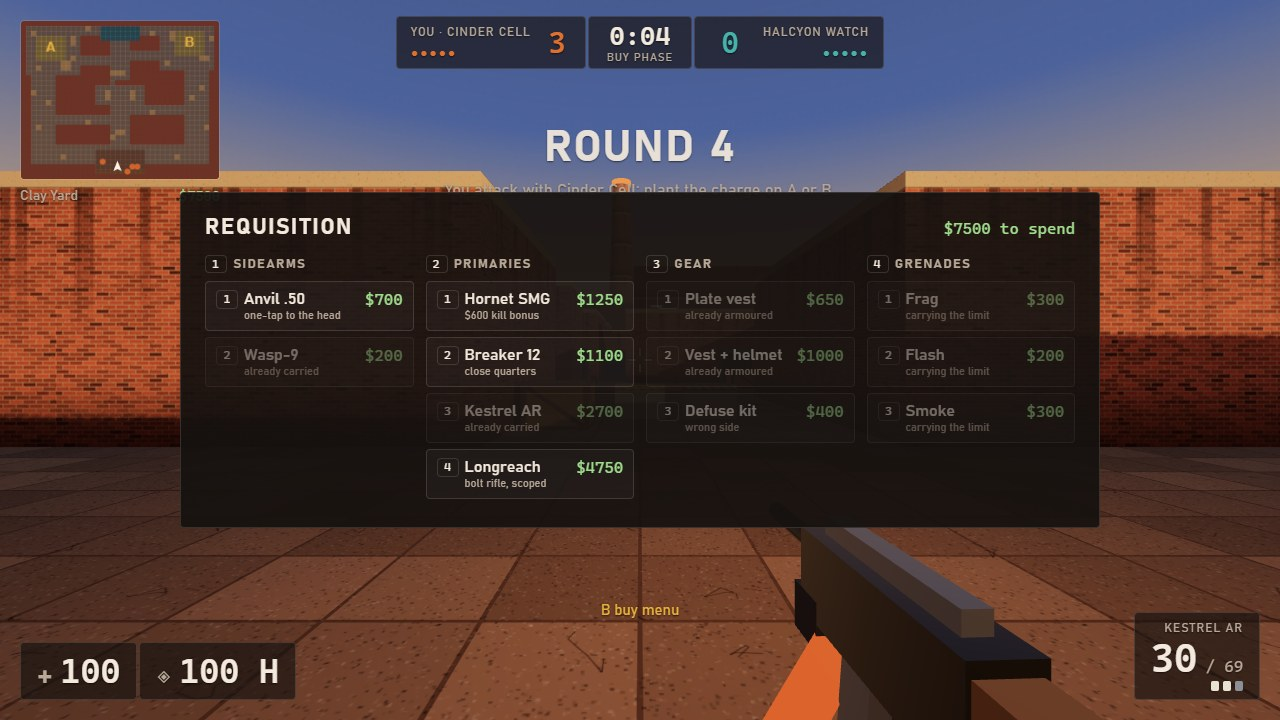
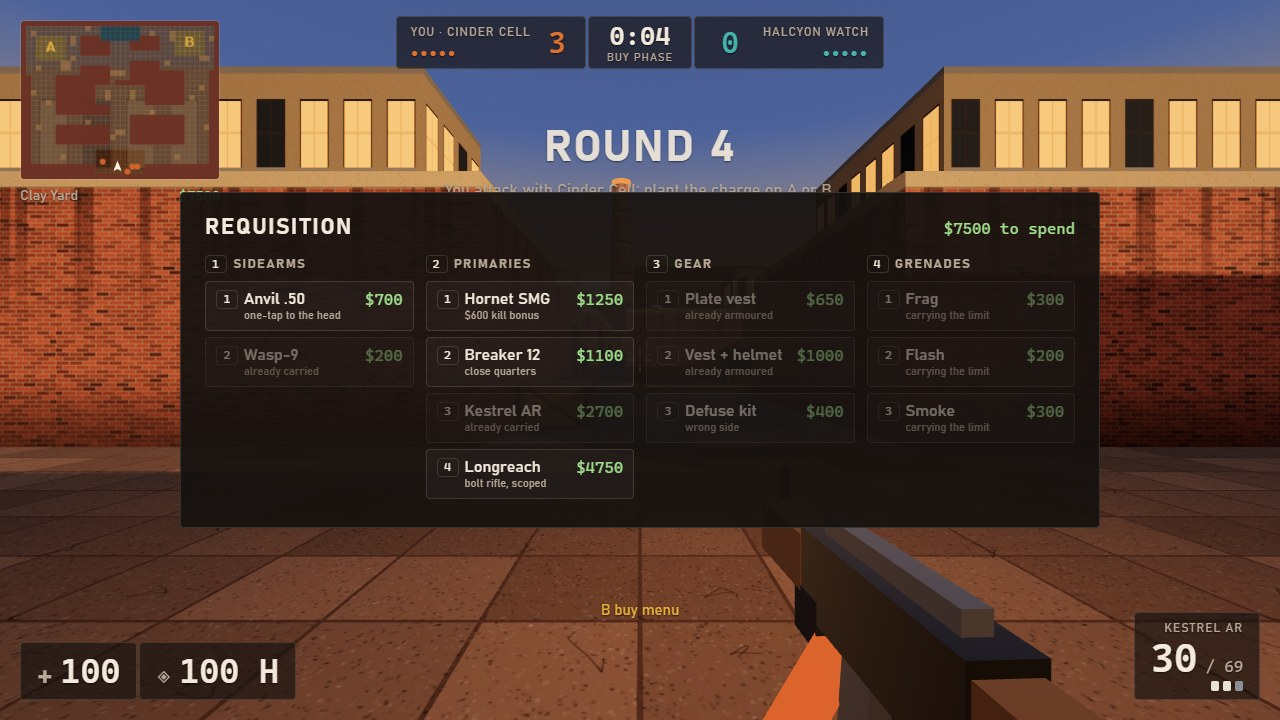
Buildings, paved sites and rifle detail
Wall cells with no open neighbour rise as lit two-storey buildings; the
sites, office and mid get poured concrete floors; rifles get a handguard,
sight post and charging handle; the ray-box test clips one axis at a time.

diff --git a/game/src/render/level.js b/game/src/render/level.js
@@ -5,6 +5,7 @@ import * as THREE from 'three';
 import { CELL } from '../config.js';
 import { PALETTE } from '../palette.js';
 import { createRng } from '../rng.js';
+import { KINDS, PAVED } from '../map/layout.js';
 
 function createBuilder() {
 	return { pos: [], nor: [], uv: [], idx: [] };
@@ -35,6 +36,18 @@ function box(b, x0, y0, z0, x1, y1, z1, tile, top = true) {
 	if (top) quad(b, [x0, y1, z1], [w, 0, 0], [0, 0, -d], [0, 1, 0], 0, 0, 1, 1);
 }
 
+const SIDES = [[1, 0], [-1, 0], [0, 1], [0, -1]];
+
+// One side of a wall cell between heights y0 and y1: 4 m texture tiles along it, one tile of
+// `tall` metres up it from `base`.
+function wallFace(b, c, dx, dz, y0, y1, tall, base) {
+	const h = y1 - y0, v0 = (y0 - base) / tall, v1 = (y1 - base) / tall;
+	if (dx === 1) quad(b, [c.maxX, y0, c.maxZ], [0, 0, -CELL], [0, h, 0], [1, 0, 0], -c.maxZ / 4, v0, -c.minZ / 4, v1);
+	else if (dx === -1) quad(b, [c.minX, y0, c.minZ], [0, 0, CELL], [0, h, 0], [-1, 0, 0], c.minZ / 4, v0, c.maxZ / 4, v1);
+	else if (dz === 1) quad(b, [c.minX, y0, c.maxZ], [CELL, 0, 0], [0, h, 0], [0, 0, 1], c.minX / 4, v0, c.maxX / 4, v1);
+	else quad(b, [c.maxX, y0, c.minZ], [-CELL, 0, 0], [0, h, 0], [0, 0, -1], -c.maxX / 4, v0, -c.minX / 4, v1);
+}
+
 function toMesh(b, material) {
 	const g = new THREE.BufferGeometry();
 	g.setAttribute('position', new THREE.Float32BufferAttribute(b.pos, 3));
@@ -53,31 +66,41 @@ export function buildLevel(scene, grid, tex) {
 	const mat = {
 		wall: new THREE.MeshStandardMaterial({ map: tex.brick, roughness: 0.92 }),
 		floor: new THREE.MeshStandardMaterial({ map: tex.clay, roughness: 0.96 }),
+		paved: new THREE.MeshStandardMaterial({ map: tex.slabs, roughness: 0.85, polygonOffset: true, polygonOffsetFactor: -1 }),
 		crate: new THREE.MeshStandardMaterial({ map: tex.crate, roughness: 0.85 }),
 		crateTall: new THREE.MeshStandardMaterial({ map: tex.steel, roughness: 0.55, metalness: 0.35 }),
 		barrier: new THREE.MeshStandardMaterial({ map: tex.concrete, roughness: 0.9 }),
+		facade: new THREE.MeshStandardMaterial({ map: tex.facade, emissiveMap: tex.facadeGlow, emissive: 0xffb873, emissiveIntensity: 0.95, roughness: 0.9 }),
 		shed: new THREE.MeshStandardMaterial({ map: tex.brick, color: 0x9a8a80, roughness: 1 }),
 	};
 
 	const floor = createBuilder();
 	quad(floor, [0, 0, D], [W, 0, 0], [0, 0, -D], [0, 1, 0], 0, -D / 4, W / 4, 0);
-	const floorMesh = toMesh(floor, mat.floor);
-	floorMesh.castShadow = false;
-	scene.add(floorMesh);
+	const paved = createBuilder();
+	for (const [x0, z0, x1, z1] of PAVED) {
+		const w = (x1 - x0) * CELL, d = (z1 - z0) * CELL;
+		quad(paved, [x0 * CELL, 0, z1 * CELL], [w, 0, 0], [0, 0, -d], [0, 1, 0], x0 * CELL / 4, -z1 * CELL / 4, x1 * CELL / 4, -z0 * CELL / 4);
+	}
+	for (const m of [toMesh(floor, mat.floor), toMesh(paved, mat.paved)]) {
+		m.castShadow = false;
+		scene.add(m);
+	}
 
-	// Walls: only faces that border a non-wall cell are built, so the merged mesh stays small.
-	const walls = createBuilder();
-	const isWall = (x, z) => grid.at(x, z)?.ch === '#';
+	// Walls: a face is built only where a cell rises above its neighbour, so the merged meshes stay
+	// small. Brick runs up to the yard walls' height; the building cores above show a facade.
+	const walls = createBuilder(), facades = createBuilder();
+	const yardTop = KINDS['#'].top;
 	for (const c of grid.cells) {
 		if (c.ch !== '#') continue;
-		const x0 = c.minX, x1 = c.maxX, z0 = c.minZ, z1 = c.maxZ, h = c.top;
-		const inside = (x, z) => grid.at(x, z) !== null && !isWall(x, z);
-		if (inside(c.x + 1, c.z)) quad(walls, [x1, 0, z1], [0, 0, -CELL], [0, h, 0], [1, 0, 0], -z1 / 4, 0, -z0 / 4, 1);
-		if (inside(c.x - 1, c.z)) quad(walls, [x0, 0, z0], [0, 0, CELL], [0, h, 0], [-1, 0, 0], z0 / 4, 0, z1 / 4, 1);
-		if (inside(c.x, c.z + 1)) quad(walls, [x0, 0, z1], [CELL, 0, 0], [0, h, 0], [0, 0, 1], x0 / 4, 0, x1 / 4, 1);
-		if (inside(c.x, c.z - 1)) quad(walls, [x1, 0, z0], [-CELL, 0, 0], [0, h, 0], [0, 0, -1], -x1 / 4, 0, -x0 / 4, 1);
+		for (const [dx, dz] of SIDES) {
+			const n = grid.at(c.x + dx, c.z + dz);
+			if (n === null) continue;
+			const from = n.ch === '#' ? n.top : 0;
+			if (from < yardTop) wallFace(walls, c, dx, dz, from, Math.min(c.top, yardTop), yardTop, 0);
+			if (c.top > yardTop && from < c.top) wallFace(facades, c, dx, dz, Math.max(from, yardTop), c.top, c.top - yardTop, yardTop);
+		}
 	}
-	scene.add(toMesh(walls, mat.wall));
+	scene.add(toMesh(walls, mat.wall), toMesh(facades, mat.facade));
 
 	const crates = createBuilder(), tall = createBuilder(), barriers = createBuilder();
 	for (const c of grid.cells) {

diff --git a/game/src/map/grid.js b/game/src/map/grid.js
@@ -29,6 +29,13 @@ export function createGrid() {
 	}
 
 	const at = (cx, cz) => (cx < 0 || cz < 0 || cx >= width || cz >= depth ? null : cells[cz * width + cx]);
+	const open = (cx, cz) => at(cx, cz) !== null && at(cx, cz).ch !== '#';
+	for (const c of cells) {
+		if (c.ch !== '#') continue;
+		let exposed = false;
+		for (let dz = -1; dz <= 1; dz++) for (let dx = -1; dx <= 1; dx++) if (open(c.x + dx, c.z + dz)) exposed = true;
+		if (!exposed) c.top = KINDS['#'].core;
+	}
 	const atWorld = (wx, wz) => at(Math.floor(wx / CELL), Math.floor(wz / CELL));
 	const walkable = (cx, cz) => {
 		const c = at(cx, cz);
@@ -58,35 +65,25 @@ export function createGrid() {
 		return outside;
 	}
 
-	// Ray against one cell's box (slab test). Returns the entry distance or Infinity; sets the normal.
+	// Ray against one cell's box (slab test): narrow the ray's [min, max] span by one axis at a
+	// time, remembering which axis it entered through for the surface normal.
+	const span = { min: 0, max: 0, axis: -1, sign: 0 };
+	function clip(o, d, lo, hi, axis) {
+		if (d === 0) return o >= lo && o <= hi;
+		let t1 = (lo - o) / d, t2 = (hi - o) / d, s = -1;
+		if (t1 > t2) { const k = t1; t1 = t2; t2 = k; s = 1; }
+		if (t1 > span.min) { span.min = t1; span.axis = axis; span.sign = s; }
+		if (t2 < span.max) span.max = t2;
+		return true;
+	}
 	function slab(c, ox, oy, oz, dx, dy, dz, hit) {
-		let tmin = 0, tmax = Infinity, axis = -1, sign = 0;
-		// x
-		if (dx !== 0) {
-			let t1 = (c.minX - ox) / dx, t2 = (c.maxX - ox) / dx, s = -1;
-			if (t1 > t2) { const k = t1; t1 = t2; t2 = k; s = 1; }
-			if (t1 > tmin) { tmin = t1; axis = 0; sign = s; }
-			if (t2 < tmax) tmax = t2;
-		} else if (ox < c.minX || ox > c.maxX) return Infinity;
-		// y
-		if (dy !== 0) {
-			let t1 = -oy / dy, t2 = (c.top - oy) / dy, s = -1;
-			if (t1 > t2) { const k = t1; t1 = t2; t2 = k; s = 1; }
-			if (t1 > tmin) { tmin = t1; axis = 1; sign = s; }
-			if (t2 < tmax) tmax = t2;
-		} else if (oy < 0 || oy > c.top) return Infinity;
-		// z
-		if (dz !== 0) {
-			let t1 = (c.minZ - oz) / dz, t2 = (c.maxZ - oz) / dz, s = -1;
-			if (t1 > t2) { const k = t1; t1 = t2; t2 = k; s = 1; }
-			if (t1 > tmin) { tmin = t1; axis = 2; sign = s; }
-			if (t2 < tmax) tmax = t2;
-		} else if (oz < c.minZ || oz > c.maxZ) return Infinity;
-		if (tmax < tmin || axis < 0) return Infinity;
-		hit.nx = axis === 0 ? sign : 0;
-		hit.ny = axis === 1 ? sign : 0;
-		hit.nz = axis === 2 ? sign : 0;
-		return tmin;
+		span.min = 0; span.max = Infinity; span.axis = -1;
+		if (!clip(ox, dx, c.minX, c.maxX, 0) || !clip(oy, dy, 0, c.top, 1) || !clip(oz, dz, c.minZ, c.maxZ, 2)) return Infinity;
+		if (span.max < span.min || span.axis < 0) return Infinity;
+		hit.nx = span.axis === 0 ? span.sign : 0;
+		hit.ny = span.axis === 1 ? span.sign : 0;
+		hit.nz = span.axis === 2 ? span.sign : 0;
+		return span.min;
 	}
 
 	// First thing a ray meets within maxDist: a box, the floor or the map's edge. Fills `hit`

diff --git a/game/src/render/textures.js b/game/src/render/textures.js
@@ -131,6 +131,30 @@ function steel(rng) {
 	return texture(c);
 }
 
+// 4 m of poured floor: 2 m slabs with saw-cut joints, oil stains and scuffs.
+function slabs(rng) {
+	const [c, g] = surface(512, 512);
+	for (let i = 0; i < 4; i++) {
+		g.fillStyle = rgb(PALETTE.concrete, 0.78 + rng.next() * 0.12);
+		g.fillRect((i % 2) * 256, (i >> 1) * 256, 256, 256);
+	}
+	grain(g, 512, 512, rng, 0.35, 9000);
+	for (let i = 0; i < 6; i++) {
+		const stain = g.createRadialGradient(0, 0, 0, 0, 0, 20 + rng.next() * 50);
+		stain.addColorStop(0, 'rgba(25,20,18,0.45)');
+		stain.addColorStop(1, 'rgba(25,20,18,0)');
+		g.save();
+		g.translate(rng.next() * 512, rng.next() * 512);
+		g.fillStyle = stain;
+		g.fillRect(-70, -70, 140, 140);
+		g.restore();
+	}
+	g.fillStyle = 'rgba(30,26,24,0.6)';
+	g.fillRect(0, 254, 512, 4); g.fillRect(254, 0, 4, 512);
+	g.fillRect(0, 0, 512, 2); g.fillRect(0, 0, 2, 512);
+	return texture(c);
+}
+
 function concrete(rng) {
 	const [c, g] = surface(256, 256);
 	g.fillStyle = rgb(PALETTE.concrete);
@@ -145,6 +169,38 @@ function concrete(rng) {
 	g.fillStyle = rgb(PALETTE.soot, 1.4);
 	g.fillRect(0, 34, 256, 6);
 	return texture(c);
+}
+
+// The upper storey of the works' buildings: 4 m of plaster with four tall windows, and a glow
+// map in which some of them are lit for the evening shift.
+function facade(rng) {
+	const [c, g] = surface(1024, 512);
+	const [gc, glow] = surface(1024, 512);
+	g.fillStyle = rgb(PALETTE.sandstone, 0.72);
+	g.fillRect(0, 0, 1024, 512);
+	grain(g, 1024, 512, rng, 0.3, 9000);
+	g.fillStyle = rgb(PALETTE.concrete, 0.8);
+	g.fillRect(0, 474, 1024, 38);
+	g.fillRect(0, 0, 1024, 26);
+	glow.fillStyle = '#000';
+	glow.fillRect(0, 0, 1024, 512);
+	for (let i = 0; i < 4; i++) {
+		const x = i * 256 + 51, lit = rng.chance(0.45);
+		g.fillStyle = rgb(PALETTE.soot, 1.2);
+		g.fillRect(x - 8, 120, 170, 260);
+		g.fillStyle = lit ? '#c9874e' : '#232a33';
+		g.fillRect(x, 128, 154, 244);
+		if (lit) {
+			glow.fillStyle = '#ffd9a0';
+			glow.fillRect(x, 128, 154, 244);
+		}
+		g.fillStyle = rgb(PALETTE.soot, 1.2);
+		g.fillRect(x + 72, 128, 10, 244);
+		g.fillRect(x, 240, 154, 10);
+		g.fillStyle = rgb(PALETTE.concrete, 0.9);
+		g.fillRect(x - 14, 372, 182, 16);
+	}
+	return { facade: texture(c), facadeGlow: texture(gc) };
 }
 
 // The plant zone's floor marking: a hazard-striped border and the site letter, on transparency.
@@ -222,6 +278,8 @@ export function createTextures() {
 		crate: crate(rng),
 		steel: steel(rng),
 		concrete: concrete(rng),
+		...facade(rng),
+		slabs: slabs(rng),
 		zoneA: zoneMark('A'),
 		zoneB: zoneMark('B'),
 		sign,

diff --git a/game/src/render/viewmodel.js b/game/src/render/viewmodel.js
@@ -9,7 +9,7 @@ import { WEAPONS } from '../sim/weapons.js';
 const SHAPES = {
 	wasp: { body: [0.04, 0.055, 0.17], barrel: 0.02, mag: [0.032, 0.1, 0.045], grip: 0.09, hold: [0.15, -0.15, -0.38] },
 	anvil: { body: [0.05, 0.07, 0.23], barrel: 0.05, mag: [0.036, 0.1, 0.05], grip: 0.1, hold: [0.16, -0.16, -0.4] },
-	hornet: { body: [0.055, 0.085, 0.3], barrel: 0.1, mag: [0.036, 0.17, 0.05], stock: [0.035, 0.05, 0.16], grip: 0.09, hold: [0.17, -0.17, -0.44] },
+	hornet: { body: [0.055, 0.085, 0.3], barrel: 0.12, rail: true, mag: [0.036, 0.17, 0.05], stock: [0.035, 0.05, 0.16], grip: 0.09, hold: [0.17, -0.17, -0.44] },
 	breaker: { body: [0.06, 0.075, 0.3], barrel: 0.42, pump: true, stock: [0.05, 0.09, 0.24], grip: 0.09, hold: [0.17, -0.18, -0.46] },
 	kestrel: { body: [0.058, 0.095, 0.36], barrel: 0.22, mag: [0.042, 0.17, 0.07], stock: [0.05, 0.09, 0.24], rail: true, grip: 0.1, hold: [0.17, -0.18, -0.46] },
 	longreach: { body: [0.058, 0.085, 0.42], barrel: 0.42, mag: [0.04, 0.07, 0.08], stock: [0.055, 0.11, 0.28], scope: true, grip: 0.1, hold: [0.17, -0.17, -0.48] },
@@ -56,7 +56,13 @@ function gunModel(shape, mats) {
 		const tube = mesh(new THREE.CylinderGeometry(0.016, 0.016, 0.4, 8), mats.metal, 0, -0.03, -l / 2 - 0.2, g);
 		tube.rotation.x = Math.PI / 2;
 	}
-	if (shape.rail) mesh(new THREE.BoxGeometry(0.024, 0.02, l * 0.8), mats.trim, 0, h / 2 + 0.01, 0, g);
+	if (shape.rail) {
+		// Rifle furniture: a ribbed handguard round the barrel, a sight post and the charging handle.
+		mesh(new THREE.BoxGeometry(0.024, 0.02, l * 0.8), mats.trim, 0, h / 2 + 0.01, 0, g);
+		mesh(new THREE.BoxGeometry(w * 1.05, h * 0.7, shape.barrel * 0.85), mats.wood, 0, h * 0.05, -l / 2 - shape.barrel * 0.42, g);
+		mesh(new THREE.BoxGeometry(0.012, 0.045, 0.012), mats.metal, 0, h / 2 + 0.02, -l / 2 - shape.barrel * 0.8, g);
+		mesh(new THREE.BoxGeometry(0.03, 0.015, 0.02), mats.trim, w / 2 + 0.01, h * 0.25, l * 0.25, g);
+	}
 	if (shape.scope) {
 		const scope = mesh(new THREE.CylinderGeometry(0.024, 0.028, 0.26, 12), mats.trim, 0, h / 2 + 0.035, -0.02, g);
 		scope.rotation.x = Math.PI / 2;

diff --git a/game/src/map/layout.js b/game/src/map/layout.js
@@ -41,7 +41,7 @@ export const ROWS = [
 
 // Solid cell kinds: height of the box (m), inset from the cell edge (m) and what it is made of.
 export const KINDS = {
-	'#': { top: 5.2, inset: 0, mat: 'wall' },
+	'#': { top: 5.2, inset: 0, mat: 'wall', core: 8.4 }, // a wall cell with no open cell around it rises as a building
 	'C': { top: 2.3, inset: 0.12, mat: 'crateTall' },
 	'c': { top: 1.1, inset: 0.2, mat: 'crate' },
 	'=': { top: 0.95, inset: 0.3, mat: 'barrier' },
@@ -59,6 +59,10 @@ export const POINTS = {
 };
 
 // Callout regions for the HUD's location line: [name, x0, z0, x1, z1] in cells, first match wins.
+// Concrete-floored rectangles [x0, z0, x1, z1] in cells: both sites, the office, mid and its
+// courtyard. The lanes and the clay yard keep their clay paving.
+export const PAVED = [[1, 1, 12, 11], [28, 1, 39, 10], [12, 1, 28, 4], [18, 4, 22, 25], [15, 13, 25, 17]];
+
 export const CALLOUTS = [
 	['Kiln Hall (A)', 1, 1, 12, 11], ['Loading Dock (B)', 28, 1, 39, 10], ['Watch Office', 12, 1, 28, 4],
 	['Kiln Passage', 12, 7, 18, 9], ['Catwalk', 22, 6, 28, 8], ['Mid', 18, 4, 22, 25], ['Courtyard', 15, 13, 25, 17],

diff --git a/game/src/render/stage.js b/game/src/render/stage.js
@@ -26,7 +26,7 @@ export function createStage(container, textures, width, depth) {
 	// The sun sits where the sky texture paints its glow: low, to the south-east.
 	const sun = new THREE.DirectionalLight(PALETTE.sun, 2.9);
 	const cx = width / 2, cz = depth / 2;
-	sun.position.set(cx + 62, 24, cz + 62);
+	sun.position.set(cx + 62, 32, cz + 62);
 	sun.target.position.set(cx, 0, cz);
 	sun.castShadow = true;
 	sun.shadow.mapSize.set(2048, 2048);

diff --git a/tools/shoot.ts b/tools/shoot.ts
@@ -80,5 +80,6 @@ try {
   browser.kill();
   server.kill();
   await sleep(500);
-  rmSync(profile, { recursive: true, force: true });
+  // Chrome can hold its profile a moment after it exits (Windows): retry, never fail the shots.
+  try { rmSync(profile, { recursive: true, force: true, maxRetries: 8, retryDelay: 250 }); } catch { /* left in tmp */ }
 }
